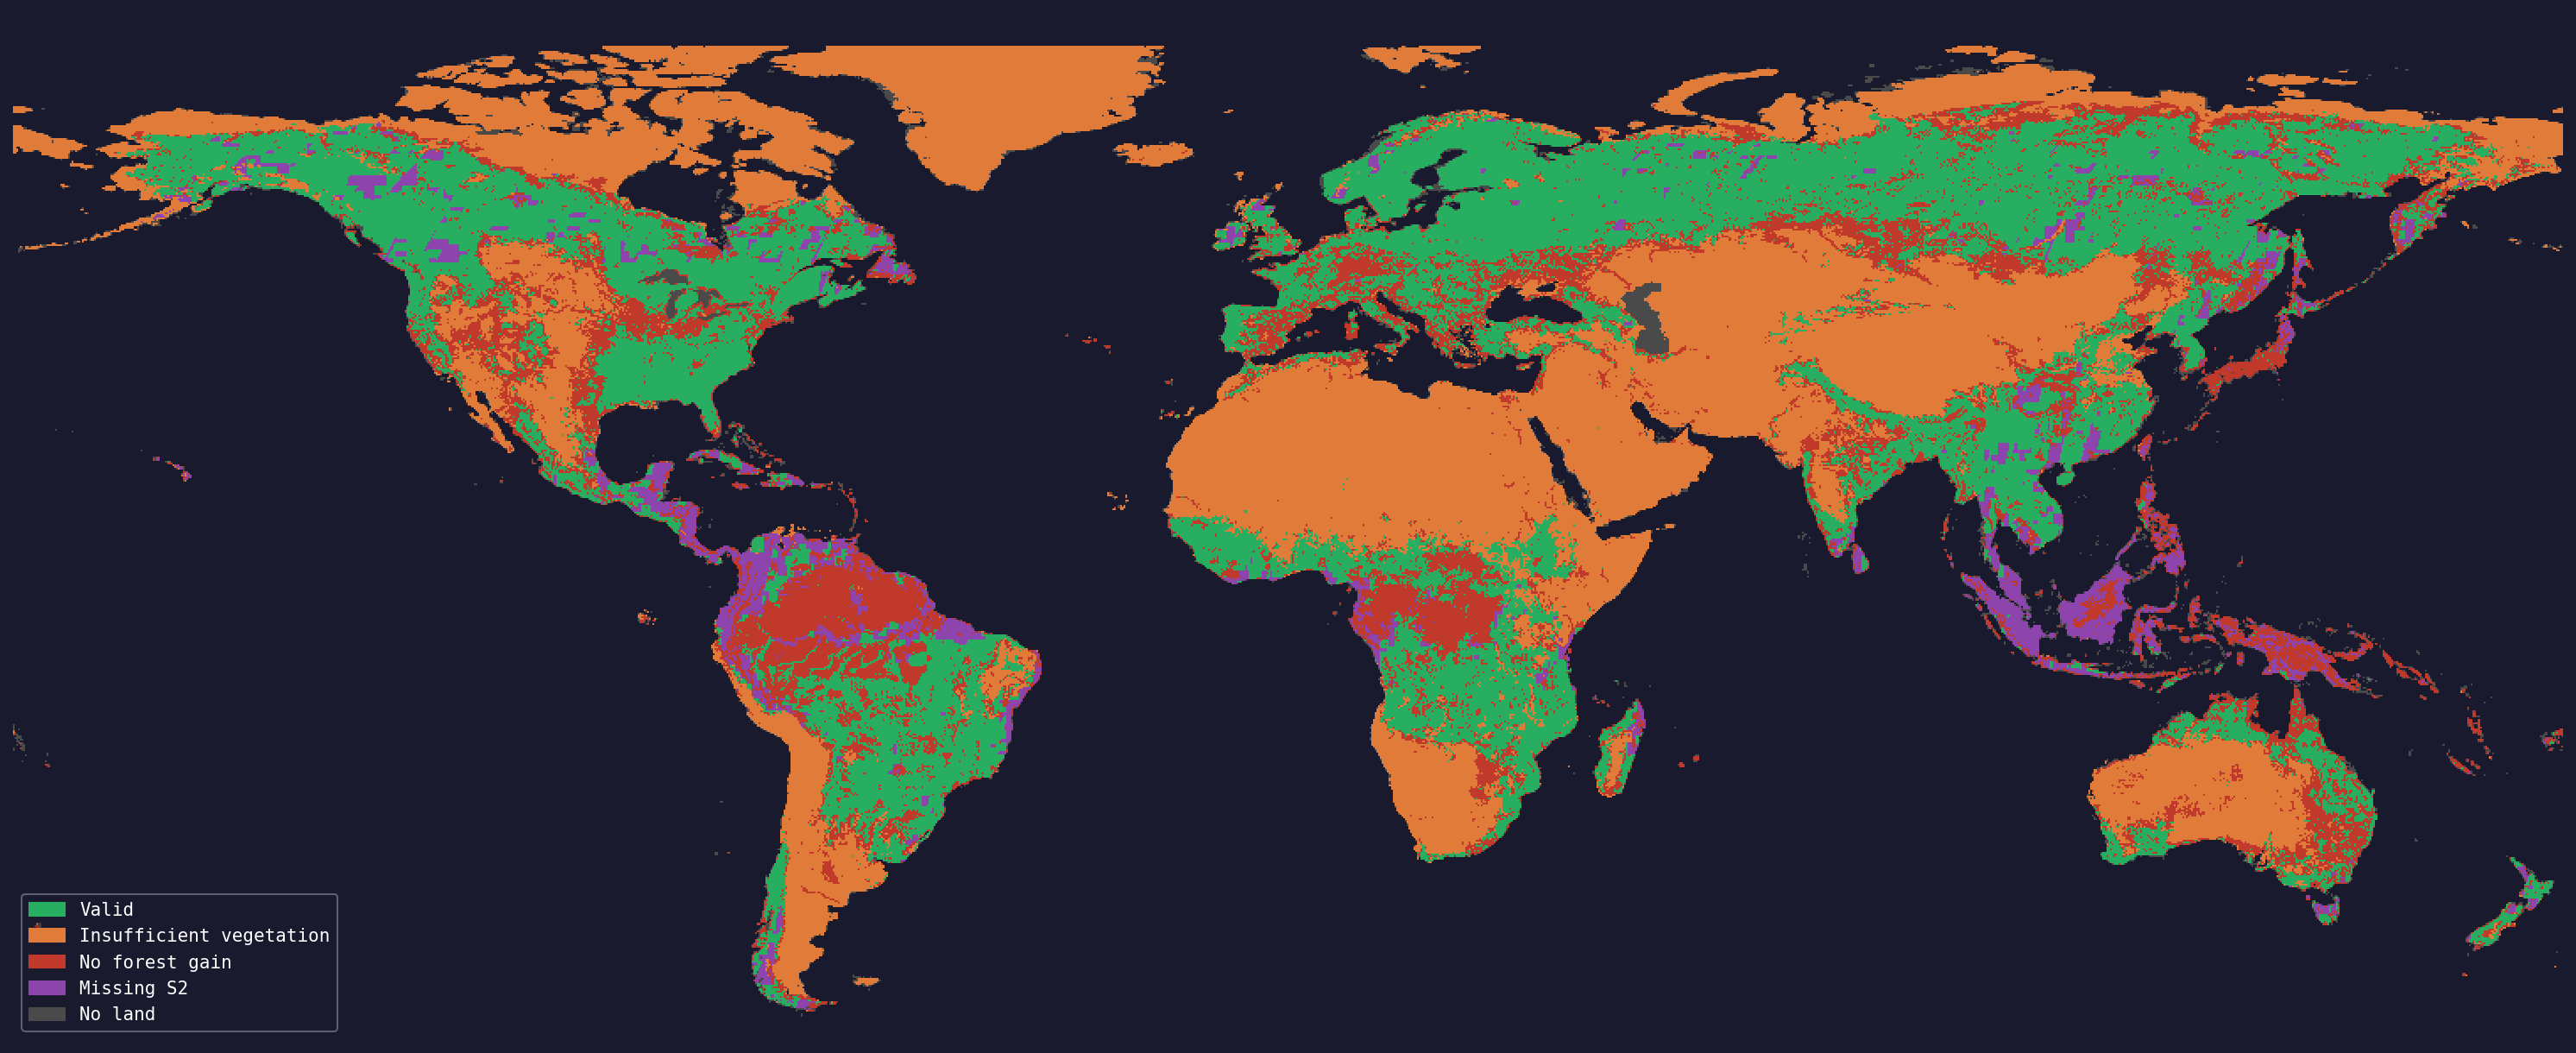
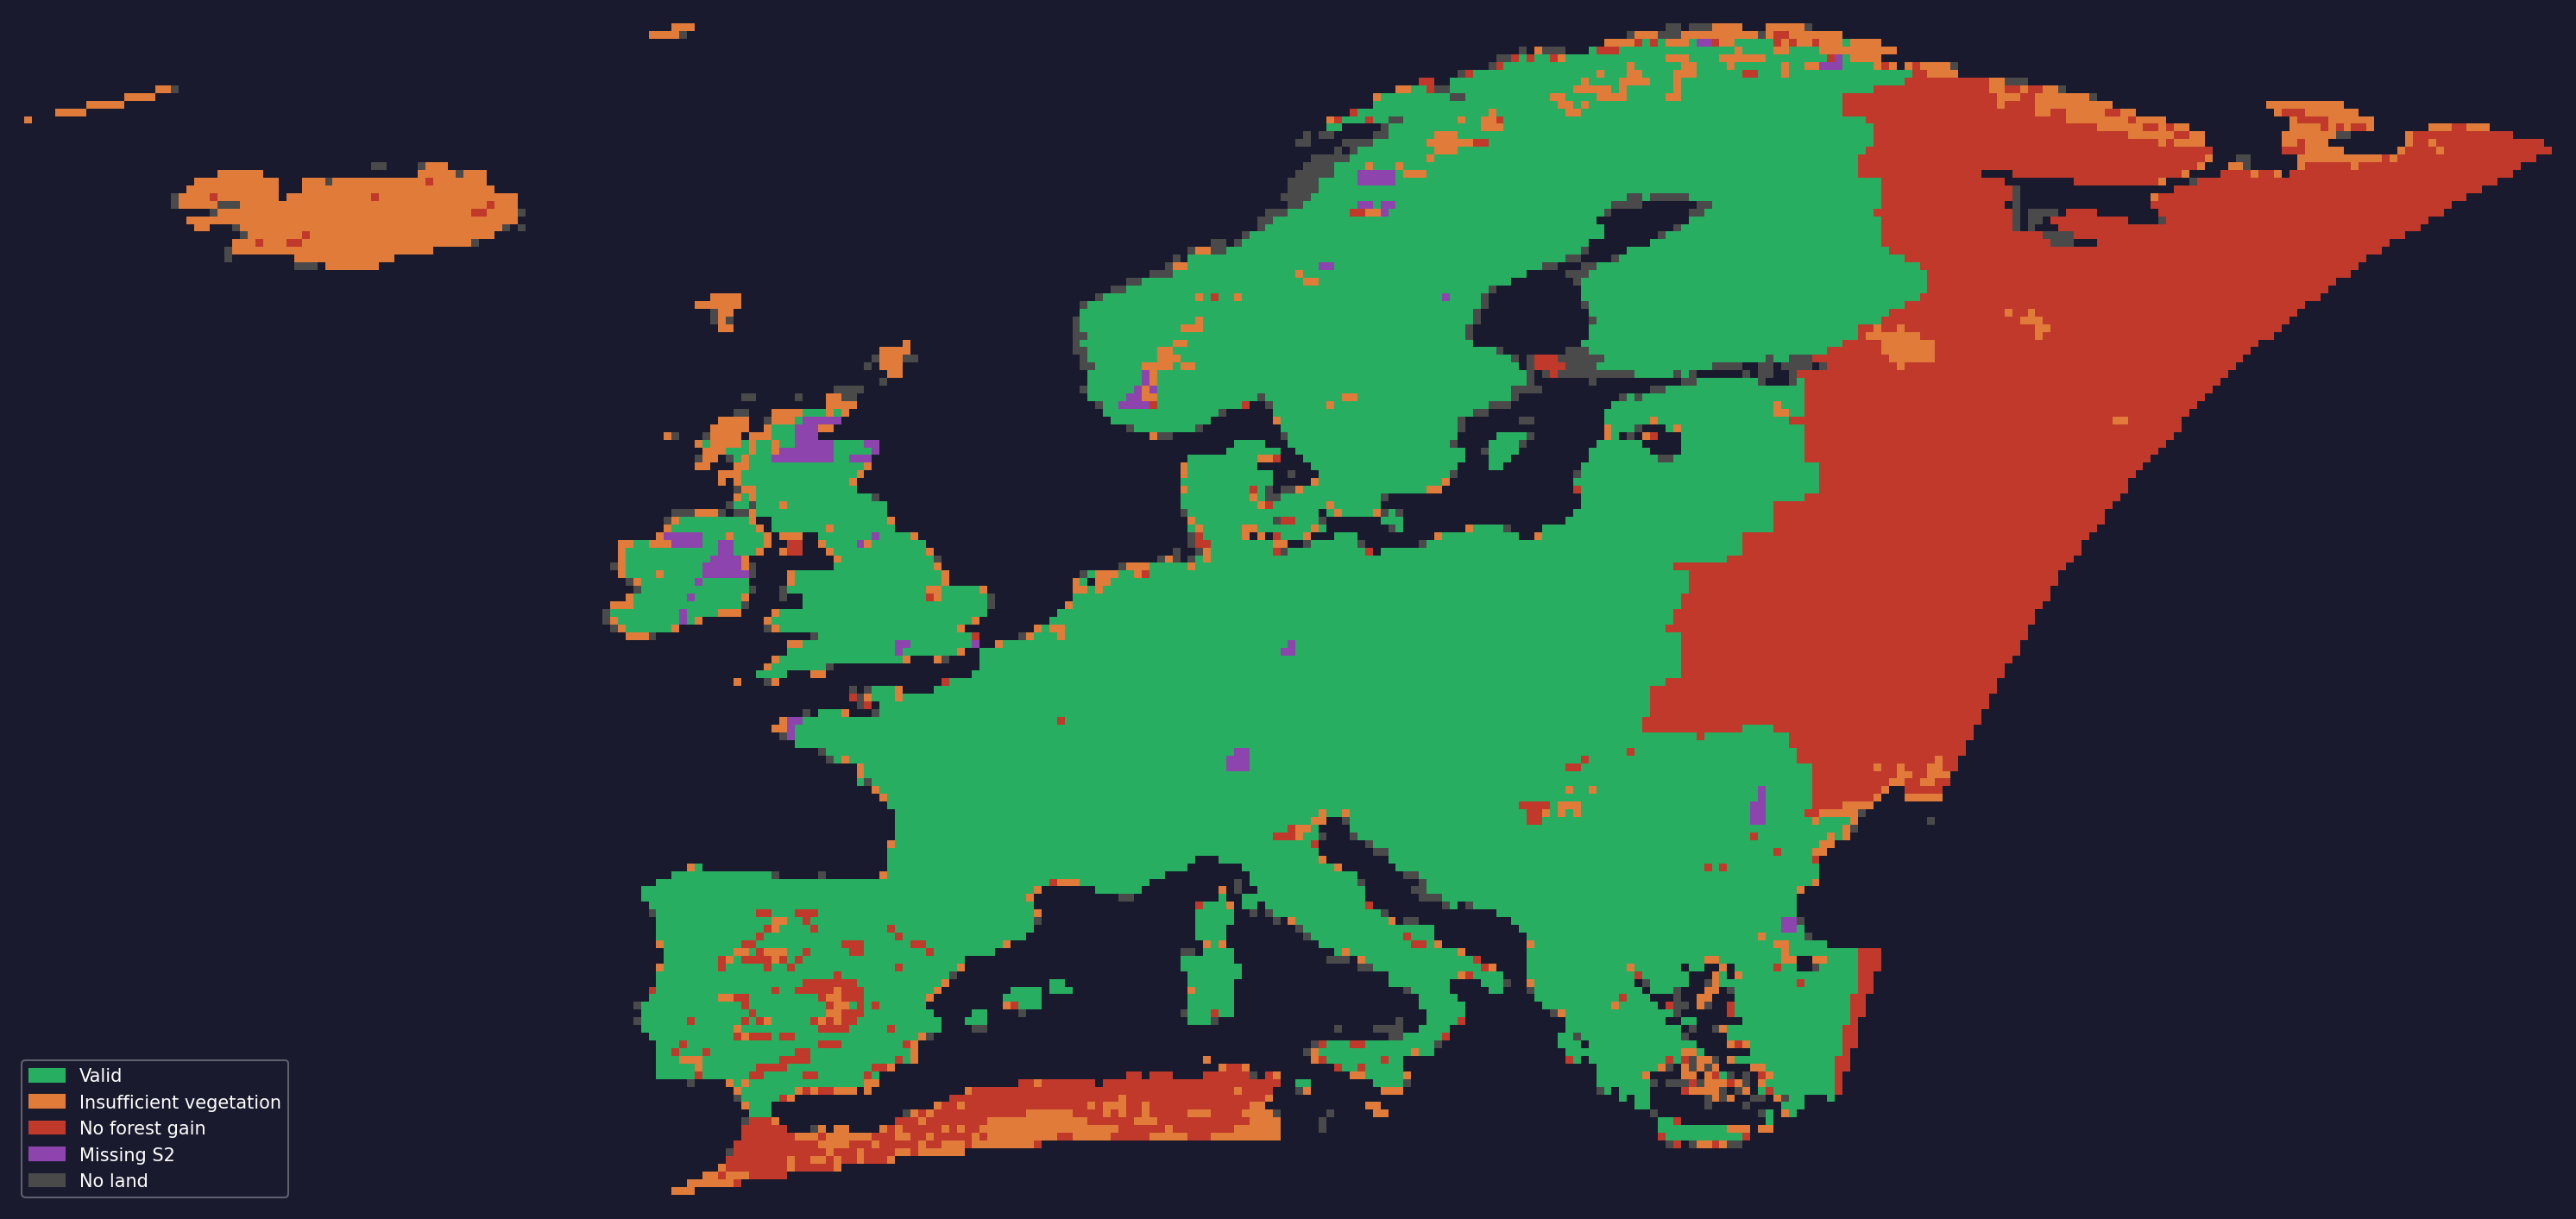
got the new temp Europe AOI

diff --git a/DataCollection/generate_aois.py b/DataCollection/generate_aois.py
@@ -50,9 +50,13 @@ load_dotenv(dotenv_path=Path(__file__).resolve().parent.parent / ".env")
 
 GEE_PROJECT = os.getenv("GEE_PROJECT")
 
+PROJECT_ROOT = Path(__file__).resolve().parent.parent
+
 OUTPUT_DIR = Path(os.getenv("OUTPUT_DIR", "data/"))
 
-OUTPUT_FILE = OUTPUT_DIR / os.getenv("OUTPUT_FILE", "aois/valid_aois.json")
+OUTPUT_FILE = (
+    PROJECT_ROOT / OUTPUT_DIR / os.getenv("OUTPUT_FILE", "aois/valid_aois.json")
+)
 
 REJECTED_OUTPUT_FILE = OUTPUT_FILE.parent / "rejected_aois.json"
 
@@ -66,8 +70,10 @@ AOI_STEP = float(os.getenv("AOI_STEP", 0.25))
 USE_HPC = os.getenv("USE_HPC", "0") == "1"
 NUM_WORKERS = int(os.getenv("NUM_WORKERS", 4))
 
+SEARCH_MODE = os.getenv("SEARCH_MODE", "asset")
+
 MIN_VEG_FRACTION = 0.01
-MIN_LAND_FRACTION = 0.05
+MIN_LAND_FRACTION = 0.01
 MIN_GAIN_FRACTION = 0.001
 
 AOI_LIST_CACHE = OUTPUT_FILE.parent / "all_aois.json"
@@ -104,19 +110,67 @@ def _build_gee_datasets():
     _esa_mangrove = _esa_wc.eq(95).unmask(0)
     _esa_veg = _esa_trees.Or(_esa_mangrove).unmask(0).rename("esa_veg")
 
-    _glulc_2015 = ee.Image("projects/glad/GLCLU2020/v2/LCLUC_2015").select([0])
-    _glulc_2020 = ee.Image("projects/glad/GLCLU2020/v2/LCLUC_2020").select([0])
+    def load_dt_mosaic(year):
+        return (
+            ee.Image(
+                f"projects/symbolic-base-346316/assets/dt_tree_cover_{year}_mosaic"
+            )
+            .select([0])
+            .divide(2.55)
+            .rename("tree_cover_pct")
+        )
 
-    _tree_classes = ee.List.sequence(25, 96).cat(ee.List.sequence(125, 196))
-    _ones = ee.List.repeat(1, _tree_classes.length())
+    _cover_2017 = load_dt_mosaic(2017)
+    _cover_2020 = load_dt_mosaic(2020)
 
-    _tree_2015 = _glulc_2015.remap(_tree_classes, _ones, 0)
-    _tree_2020 = _glulc_2020.remap(_tree_classes, _ones, 0)
-    _gain_mask = _tree_2020.And(_tree_2015.Not()).select([0]).rename("gain").unmask(0)
+    _forest_2017 = _cover_2017.gt(50).unmask(0)
+    _forest_2020 = _cover_2020.gt(50).unmask(0)
+
+    _gain_mask = _forest_2017.Not().And(_forest_2020).rename("gain").unmask(0)
 
     _ecoregions = ee.FeatureCollection("RESOLVE/ECOREGIONS/2017")
 
     return _land_raster, _esa_veg, _gain_mask, _ecoregions
+
+
+def get_asset_bounds(year_start=2017, year_end=2020, padding=0.5):
+    """
+    Derive the geographic bounding box of the deadtrees gain layer
+    by unioning the tile geometries for the start and end years.
+    Returns (min_lon, min_lat, max_lon, max_lat) with optional padding.
+    """
+
+    def load_mosaic(year):
+        return ee.Image(
+            f"projects/symbolic-base-346316/assets/dt_tree_cover_{year}_mosaic"
+        )
+
+    bounds = (
+        load_mosaic(year_start)
+        .geometry()
+        .union(load_mosaic(year_end).geometry(), 1)
+        .bounds(1, "EPSG:4326")
+        .coordinates()
+        .get(0)
+    )
+
+    coords = ee.List(bounds).getInfo()
+
+    lons = [c[0] for c in coords]
+    lats = [c[1] for c in coords]
+
+    min_lon = max(-180.0, min(lons) - padding)
+    min_lat = max(-90.0, min(lats) - padding)
+    max_lon = min(180.0, max(lons) + padding)
+    max_lat = min(90.0, max(lats) + padding)
+
+    logger.info(
+        f"Asset bounds derived: "
+        f"lon [{min_lon:.2f}, {max_lon:.2f}] "
+        f"lat [{min_lat:.2f}, {max_lat:.2f}]"
+    )
+
+    return min_lon, min_lat, max_lon, max_lat
 
 
 def safe_num(val, default=0):
@@ -209,7 +263,12 @@ def has_usable_s2(geom):
     )
 
 
-def forest_gain_fraction_umd(_gain_mask, geom, scale=30):
+def forest_gain_fraction_dt(_gain_mask, geom, scale=100):
+    """
+    Fraction of pixels in geom that transitioned from non-forest (2017)
+    to forest (2020) using the deadtrees.earth product at 10m resolution.
+    Reduced at 100m scale for speed — sufficient for AOI-level filtering.
+    """
     val = _gain_mask.reduceRegion(
         reducer=ee.Reducer.mean(),
         geometry=geom,
@@ -238,17 +297,28 @@ def rejection_reason_str(reason_code):
     return " + ".join(reasons) if reasons else "unknown"
 
 
-def generate_global_aois(step=AOI_STEP, batch_size=2000):
+def generate_aois(
+    step=AOI_STEP,
+    batch_size=2000,
+    min_lon=-180.0,
+    min_lat=-60.0,
+    max_lon=180.0,
+    max_lat=85.0,
+):
     import math
-
-    import ee
 
     cells = []
 
-    lat = -60.0
-    while lat < 85.0:
-        lon = -180.0
-        while lon < 180.0:
+    # Snap to grid boundaries
+    lat_start = math.floor(min_lat / step) * step
+    lon_start = math.floor(min_lon / step) * step
+    lat_end = math.ceil(max_lat / step) * step
+    lon_end = math.ceil(max_lon / step) * step
+
+    lat = lat_start
+    while lat < lat_end:
+        lon = lon_start
+        while lon < lon_end:
             cells.append(
                 {
                     "minLon": round(lon, 4),
@@ -262,7 +332,7 @@ def generate_global_aois(step=AOI_STEP, batch_size=2000):
         lat += step
 
     total = len(cells)
-    print(f"[AOI] total cells: {total}")
+    logger.info(f"[AOI] total cells in search area: {total}")
 
     land_mask = (
         ee.Image("COPERNICUS/Landcover/100m/Proba-V-C3/Global/2019")
@@ -272,13 +342,16 @@ def generate_global_aois(step=AOI_STEP, batch_size=2000):
 
     valid = []
     batches = math.ceil(total / batch_size)
+    asset_geom = ee.Image(
+        "projects/symbolic-base-346316/assets/dt_tree_cover_2020_mosaic"
+    ).geometry()
 
     for i in range(batches):
         start = i * batch_size
         end = min((i + 1) * batch_size, total)
         batch = cells[start:end]
 
-        print(f"[AOI] processing batch {i+1}/{batches} ({start}-{end})")
+        logger.info(f"[AOI] processing batch {i+1}/{batches} ({start}-{end})")
 
         features = [
             ee.Feature(
@@ -291,6 +364,7 @@ def generate_global_aois(step=AOI_STEP, batch_size=2000):
         ]
 
         fc = ee.FeatureCollection(features)
+        fc = fc.filterBounds(asset_geom)
 
         def add_land(f):
             frac = land_mask.reduceRegion(
@@ -299,7 +373,6 @@ def generate_global_aois(step=AOI_STEP, batch_size=2000):
                 scale=1000,
                 maxPixels=1e9,
             ).get("discrete_classification")
-
             return f.set("land_frac", frac)
 
         fc = fc.map(add_land)
@@ -308,7 +381,7 @@ def generate_global_aois(step=AOI_STEP, batch_size=2000):
         batch_result = fc.getInfo()["features"]
         valid.extend(batch_result)
 
-        print(f"[AOI] batch {i+1}/{batches} → valid so far: {len(valid)}")
+        logger.info(f"[AOI] batch {i+1}/{batches} → valid so far: {len(valid)}")
 
     return valid
 
@@ -370,15 +443,17 @@ def process_batch(_land_raster, _esa_veg, _gain_mask, _ecoregions, batch):
 
         biome_name = ee.String(
             ee.Algorithms.If(
-                ee.Algorithms.Or(
-                    ee.Algorithms.IsEqual(biome_name_raw, None),
-                    ee.Algorithms.Or(
-                        ee.Algorithms.IsEqual(biome_name_raw, "N/A"),
+                ee.Algorithms.IsEqual(biome_name_raw, None),
+                "Unknown",
+                ee.Algorithms.If(
+                    ee.Algorithms.IsEqual(biome_name_raw, "N/A"),
+                    "Unknown",
+                    ee.Algorithms.If(
                         ee.Algorithms.IsEqual(biome_name_raw, ""),
+                        "Unknown",
+                        biome_name_raw,
                     ),
                 ),
-                "Unknown",
-                biome_name_raw,
             )
         )
 
@@ -390,15 +465,17 @@ def process_batch(_land_raster, _esa_veg, _gain_mask, _ecoregions, batch):
 
         realm = ee.String(
             ee.Algorithms.If(
-                ee.Algorithms.Or(
-                    ee.Algorithms.IsEqual(realm_raw, None),
-                    ee.Algorithms.Or(
-                        ee.Algorithms.IsEqual(realm_raw, "N/A"),
+                ee.Algorithms.IsEqual(realm_raw, None),
+                "Unknown",
+                ee.Algorithms.If(
+                    ee.Algorithms.IsEqual(realm_raw, "N/A"),
+                    "Unknown",
+                    ee.Algorithms.If(
                         ee.Algorithms.IsEqual(realm_raw, ""),
+                        "Unknown",
+                        realm_raw,
                     ),
                 ),
-                "Unknown",
-                realm_raw,
             )
         )
 
@@ -436,7 +513,7 @@ def process_batch(_land_raster, _esa_veg, _gain_mask, _ecoregions, batch):
     no_veg_fc = has_land_fc.filter(ee.Filter.eq("has_veg", 0))
 
     def add_gain(f):
-        fg = forest_gain_fraction_umd(_gain_mask, f.geometry())
+        fg = forest_gain_fraction_dt(_gain_mask, f.geometry())
         return f.set("forest_gain_frac", fg, "has_gain", fg.gte(MIN_GAIN_FRACTION))
 
     has_veg_fc = has_veg_fc.map(add_gain)
@@ -742,8 +819,19 @@ if __name__ == "__main__":
             all_aois = json.load(f)
         logger.info(f"Loaded {len(all_aois)} AOIs from cache")
     else:
-        logger.info("Generating AOI list — this may take a while...")
-        all_aois = generate_global_aois()
+        logger.info(f"Generating AOI list — mode={SEARCH_MODE}")
+
+        if SEARCH_MODE == "asset":
+            min_lon, min_lat, max_lon, max_lat = get_asset_bounds()
+        else:
+            min_lon, min_lat, max_lon, max_lat = -180.0, -60.0, 180.0, 85.0
+
+        all_aois = generate_aois(
+            min_lon=min_lon,
+            min_lat=min_lat,
+            max_lon=max_lon,
+            max_lat=max_lat,
+        )
         atomic_json_write(AOI_LIST_CACHE, all_aois)
         logger.info(f"Cached {len(all_aois)} land cells → {AOI_LIST_CACHE}")
 

diff --git a/DataCollection/gee.py b/DataCollection/gee.py
@@ -77,12 +77,12 @@ import argparse
 import json
 import logging
 import math
+import multiprocessing as mp
 import os
 import random
 import subprocess
 import threading
 import time
-import multiprocessing as mp
 from collections import Counter, defaultdict
 from datetime import datetime, timezone
 from pathlib import Path
@@ -95,6 +95,7 @@ load_dotenv(dotenv_path=Path(__file__).resolve().parent.parent / ".env")
 
 GEE_PROJECT = os.getenv("GEE_PROJECT")
 OUTPUT_DIR = Path(os.getenv("OUTPUT_DIR", "data/"))
+AOI_FILE = Path(os.getenv("OUTPUT_FILE", "aois/valid_aois.json"))
 DRIVE_FOLDER = os.getenv("DRIVE_FOLDER", "forest_gain_tiles")
 DRIVE_REMOTE = os.getenv("DRIVE_REMOTE", "gdrive")
 HPC_BASE = os.getenv("HPC_BASE")
@@ -109,7 +110,7 @@ GAIN_PCT_MIN = 1.0
 NDVI_DELTA_MIN = 0.0
 GAIN_CANOPY_MIN = 3.0
 
-VALID_AOIS_PATH = Path("data/aois/valid_aois_enriched.json")
+VALID_AOIS_PATH = OUTPUT_DIR / AOI_FILE
 REGISTRY_PATH = OUTPUT_DIR / "tiles" / "tile_registry.json"
 AOI_AUDIT_PATH = OUTPUT_DIR / "tiles" / "aoi_tile_audit.json"
 LOG_DIR = Path("logs")

diff --git a/DataCollection/forest_gain_tiling/config.py b/DataCollection/forest_gain_tiling/config.py
@@ -29,7 +29,7 @@ class Settings:
     hpc_base: str | None = field(default_factory=lambda: os.getenv("HPC_BASE"))
 
     valid_aois_path: Path = field(
-        default_factory=lambda: _DATA_DIR / "aois" / "valid_aois_enriched.json"
+        default_factory=lambda: _DATA_DIR / "aois" / "valid_aois.json"
     )
     registry_db_path: Path = field(
         default_factory=lambda: _DATA_DIR / "tiles" / "tile_registry.db"

diff --git a/README.md b/README.md
@@ -35,7 +35,7 @@ reforestation site informatics.
     **Step 4**: Setup .env file.
     Create a file in the project root folder called `.env` with the following variables:
       - GEE_PROJECT - Your GEE project name
-      - OUTPUT_DIR - DataCollection/data/
+      - OUTPUT_DIR - data/
       - OUTPUT_FILE - aois/aoi_filter_checkpoint.json
       - BATCH_SIZE - 500
       - AOI_STEP - 0.25